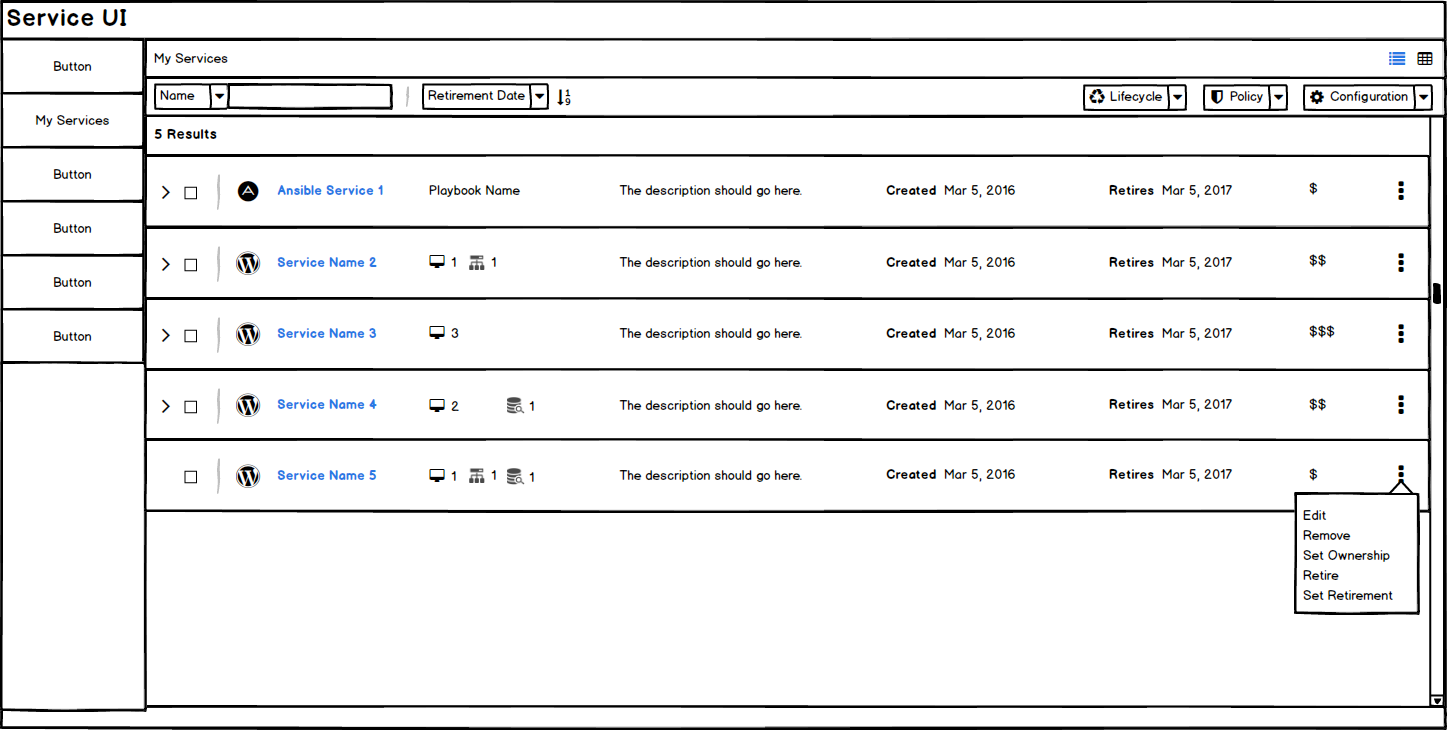
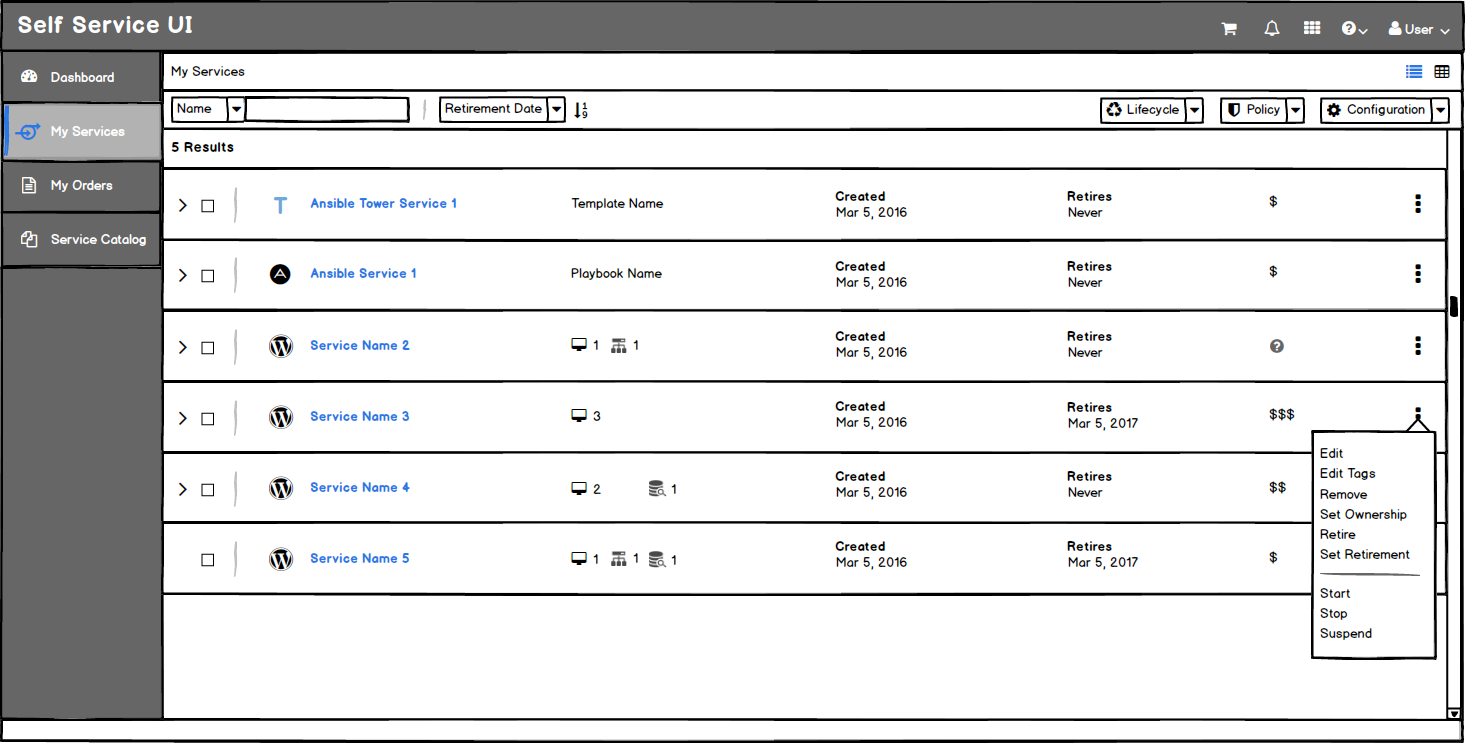
Updating images for My Services

diff --git a/UX/ui-service/MyServices/design.md b/UX/ui-service/MyServices/design.md
@@ -14,13 +14,11 @@
 * The Service Names are links and will bring the user to a service details page.
 * Resources will be shown for legacy services when a VM, Network, or Storage resource exists. For Ansible services, the playbook name should appear for this column instead.
 * **Implementation Details:** Reference the Angular PatternFly Expandable List View Component.
-* **Research:** Determine if the date should be called "Created" or "Ordered" in the list view.
 
 ## List View - Expanded Row
 ![Image of Expanded List View.](img/Services-ExpandedListView.png)
 * Clicking anywhere on the row (aside from other links or buttons) will expand the row
 * Child Services are listed in the expanded portion. If no Child Services exist for a particular service, expand should not work and the caret icon should be hidden for that row.
-* Actions available for Child Services are TBD.
 * Child Services are also links and will bring the user to the child service details page.
 
 ## Service Details (drilldown page)
@@ -41,13 +39,15 @@
 
 * Individual resources will be listed as links so users can drill down to a specific resource details view.
 ![Image of Detail View for a Resource.](img/Services-ResourceDetails.png)
-* **Research:** Determine actions available for resources. Should these be listed within the standard button groups?
 * Relationships will be the next section after Resources. Child Services will be listed as links here and will bring the user to the Child Service Summary View.
 
 #### Service Details - Summary View - Ansible Services
 * For Ansible services, the next section under the properties will be the results and standard out.
 ![Image of Detail View for an Ansible Service.](img/Services-AnsibleDetailView.png)
-* The Results section will have a basic set of information regarding the service, followed by a compact list view of plays.
+* The Results section will have a basic set of information regarding the service, including a credentials section for machine credentials, network credentials, cloud credentials etc.
+* This basic set of information will include additional fields for Ansible Tower Services
+![Image of Detail View for an Ansible Tower Service.](img/Services-AnsibleTowerDetailView.png)
+* The basic information is followed by a compact list view of plays from the most recent play.
 * The Standard Out section will include a log of the most recent information available from the time the page was loaded. If the play is still in progress, a status will appear on the right, along with a button to "Watch Live" details of the play. This live version will be displayed in a modal.
 
 #### Child Service - Summary View
